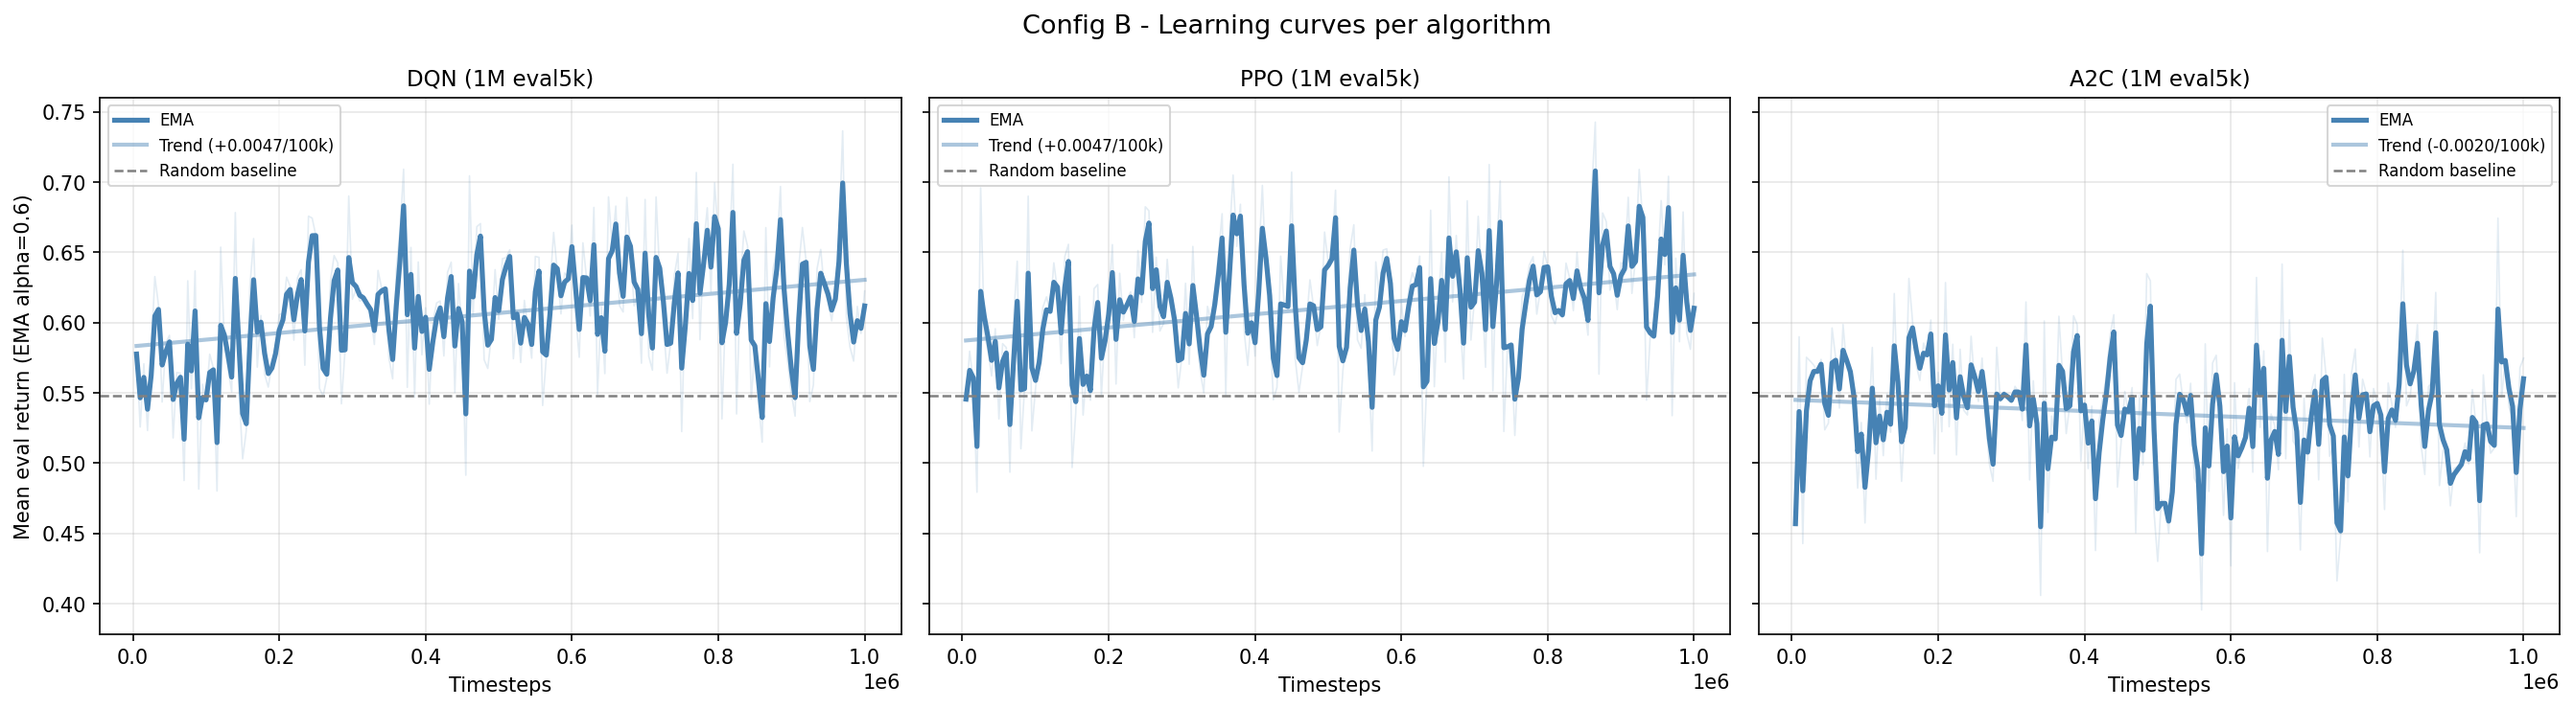
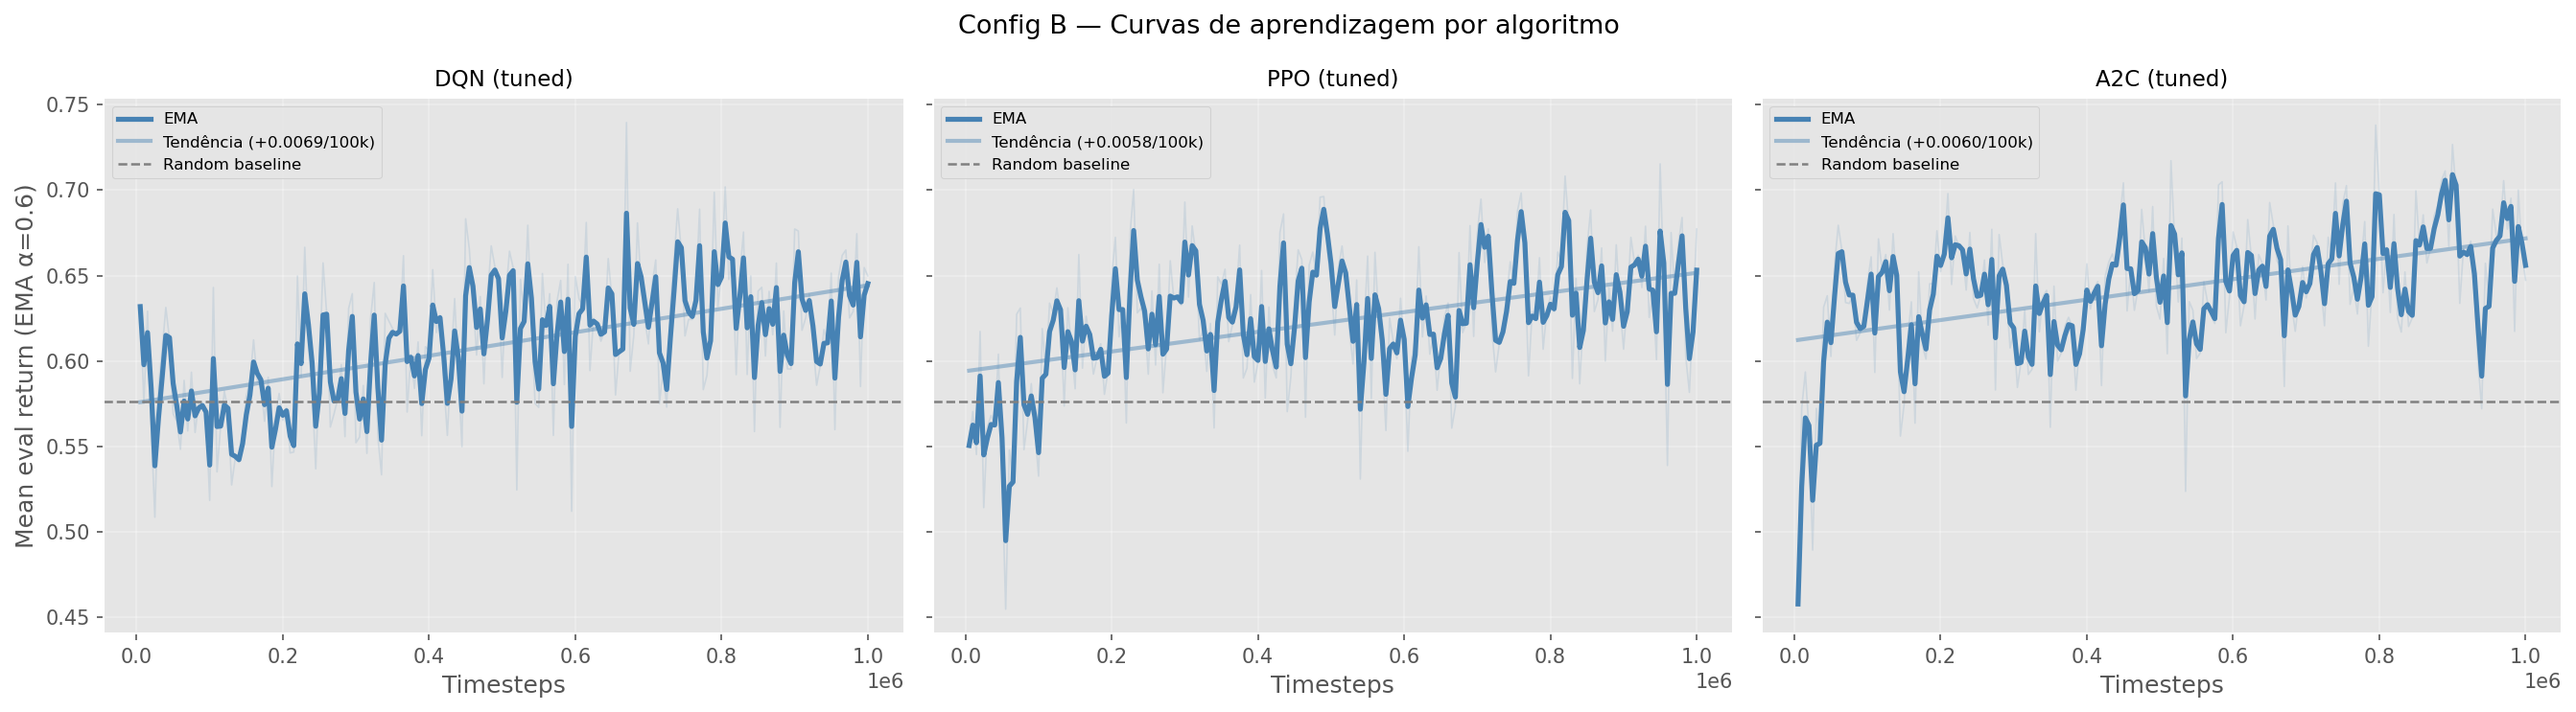
Update Config B figures and humanize report prose

diff --git a/report/report.tex b/report/report.tex
@@ -1029,8 +1029,9 @@ All figures are reproducible from the committed result files and the
 \centering
 \includegraphics[width=0.94\linewidth,height=0.16\textheight,keepaspectratio]%
   {configB_tuned_grid.png}
-\caption{Configuration~B $1$M learning curves with $5$k evaluation callbacks and
-linear trend overlays. DQN and PPO keep positive trends; A2C slightly drifts down.}
+\caption{Configuration~B $1$M learning curves (EMA, $\alpha=0.6$) with linear trend
+overlays. All three agents keep positive trends above the random baseline, DQN
+strongest ($+0.0069$/$100$k), with PPO and A2C close behind.}
 \label{fig:b_curves}
 \end{minipage}
 
@@ -1038,14 +1039,14 @@ linear trend overlays. DQN and PPO keep positive trends; A2C slightly drifts dow
 \begin{minipage}{0.48\textwidth}
 \centering
 \includegraphics[width=\linewidth,height=0.105\textheight,keepaspectratio]%
-  {configB_1m_robustness_survival.png}
+  {robustness_failure_mode.png}
 \caption{Survival by failure mode under the final $1$M policies.}
 \label{fig:b_robust}
 \end{minipage}\hfill
 \begin{minipage}{0.48\textwidth}
 \centering
 \includegraphics[width=\linewidth,height=0.105\textheight,keepaspectratio]%
-  {configB_1m_intensity.png}
+  {configB_treat_intensity.png}
 \caption{Treatment intensity: A2C is the most parsimonious; DQN trades moderate intensity for the highest survival.}
 \label{fig:b_intensity}
 \end{minipage}
@@ -1054,14 +1055,14 @@ linear trend overlays. DQN and PPO keep positive trends; A2C slightly drifts dow
 \begin{minipage}{0.48\textwidth}
 \centering
 \includegraphics[width=\linewidth,height=0.105\textheight,keepaspectratio]%
-  {configB_1m_feature_importance.png}
+  {dqn_feature_importance.png}
 \caption{DQN feature importance; sepsis markers rank among the strongest signals.}
 \label{fig:b_feat}
 \end{minipage}\hfill
 \begin{minipage}{0.48\textwidth}
 \centering
 \includegraphics[width=\linewidth,height=0.105\textheight,keepaspectratio]%
-  {configB_overestimation.png}
+  {dqn_value_calibration.png}
 \caption{DQN value calibration; the positive bias motivates Double DQN.}
 \label{fig:b_overest}
 \end{minipage}
